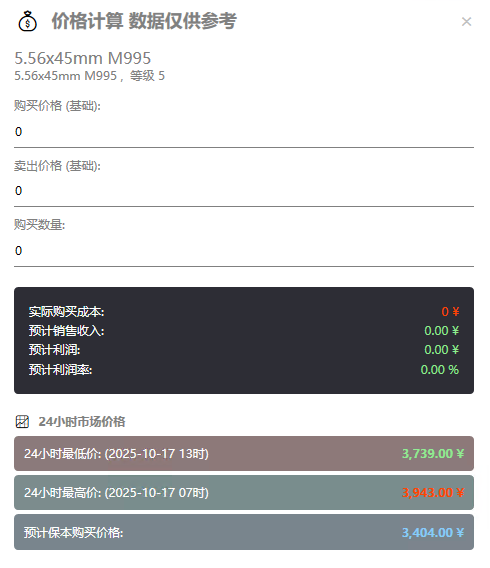
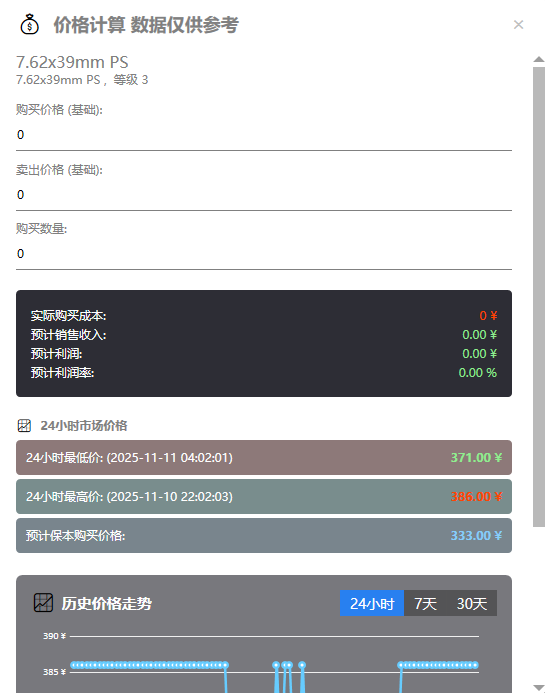
Add docs and config for AutoBullter

diff --git a/docs/Install/index.md b/docs/Install/index.md
@@ -2,14 +2,14 @@
 title: 轩灵自动驾驶软件介绍
 sidebar_position: 1
 ---
-# 轩灵自动驾驶3.0.0
+# 轩灵自动驾驶4.0.0
 
 ## 软件简介
-* **软件支持功能**： 滚仓、屯仓、抢房卡、抢装备、抢枪械配件、抢枪皮、子弹价格查看、子弹利润计算器、封号记录查询、游戏个人信息查看、签到兑换奖品等
+* **软件支持功能**： 滚仓、屯仓、抢房卡、抢装备、抢枪械配件、抢枪皮、子弹价格查看、子弹历史价格查看、子弹利润计算器、每日子弹推荐表格、密码门摩斯电码解密器、改枪推荐、封号记录查询、游戏个人信息查看、签到兑换奖品等
 
 倒子弹的逻辑是低买高买去赚中间的差距，分为滚仓和屯仓俩种；
 
-1.  **滚仓**：就是在每天晚上12点系统补货的时间利用脚本去抢低价子弹，然后以交易行的最低售价出售，赚差价，一直滚动去吃；
+1.  **滚仓**：（目前赛季倒子弹有追缴风险，请选择屯仓）就是在每天晚上12点系统补货的时间利用脚本去抢低价子弹，然后以交易行的最低售价出售，赚差价，一直滚动去吃；
 2.  **屯仓**：就是去抢低价子弹屯在仓库里，等第二天晚上价格最高的时候再去出，但是仓库容量有限，我们可以去卡邮件，把子弹囤起来，工作日一般价格较低。周末休息价格会上涨。可以等待合适时机出售。
 
 注：每天晚上的12点-2点之间是系统补单的时间点，基本上以三级弹和四级弹为主，1点之后金弹会陆陆续续有低价子弹出来。比如说919的肉弹，晚上十二点价格大概在620一发左右，扣掉手续费到手500多，系统会补300-400多的低价子弹，我们脚本去刷新吃这个低价子弹，然后挂交易行去出掉。（脚本有挂机功能，自动购买自动上架交易行）

diff --git a/docs/Install/5_Other.md b/docs/Install/5_Other.md
@@ -19,8 +19,8 @@
 
 ![子弹价格系统](/images/image_33.png)
 ![价格计算](/images/image_34.png)
-
-* 可以点击任意子弹查看预计市场价，并且可以计算预计利润。
+![价格表](/images/image_40.png)
+* 可以点击任意子弹查看预计市场价，24小时、7天、30天历史价格，并且可以计算预计利润。
 <!--  -->
 ## 四、 签到兑换系统
 
@@ -41,3 +41,23 @@
 ![枪械详情](/images/image_39.png)
 
 * 显示枪械价格、配件、整体改装后属性、单个配件属性
+
+## 六、 摩斯电码密码门解密器
+
+![解密器](/images/image_41.png)
+
+* **监听设备**： 选择你游戏输出的音频设备，一般是默认，如果不对则自行选择
+* **刷新**： 刷新监听设备列表
+* **开始监听**： 字面意义，开始监听音频
+* **停止**： 停止当前解锁器功能。停止会情况历史记录、密码分析、系统日志。
+* **信号强度**： 如果有声音则会有能量波动
+* **当前识别**： 显示当前摩斯电码
+* **当前序列**： 解密摩斯电码数字
+* **历史记录**： 显示已解密的历史密码
+* **密码分析**： 显示当前已解密的密码候选列表用于玩家输入给密码门，如果第一个密码不对，请往下输入其他组合。
+* **灵敏度阈值**： 用于识别摩斯电码，系统默认是调试好的，如果不对请点击开始监听后点击左右调整，方向键← →也可以调节。
+* **系统日志**： 显示运行日志。
+
+### 使用教程
+选择好音频设备后直接点击开始监听。然后游戏里如果找到了可以听的密码门就靠近门等待就行了，如果信号强度没有能量条波动说明音频设备选择错误。靠近密码们后多等待一会，让系统跑一跑然后从候选列表给出的密码去试。
+
